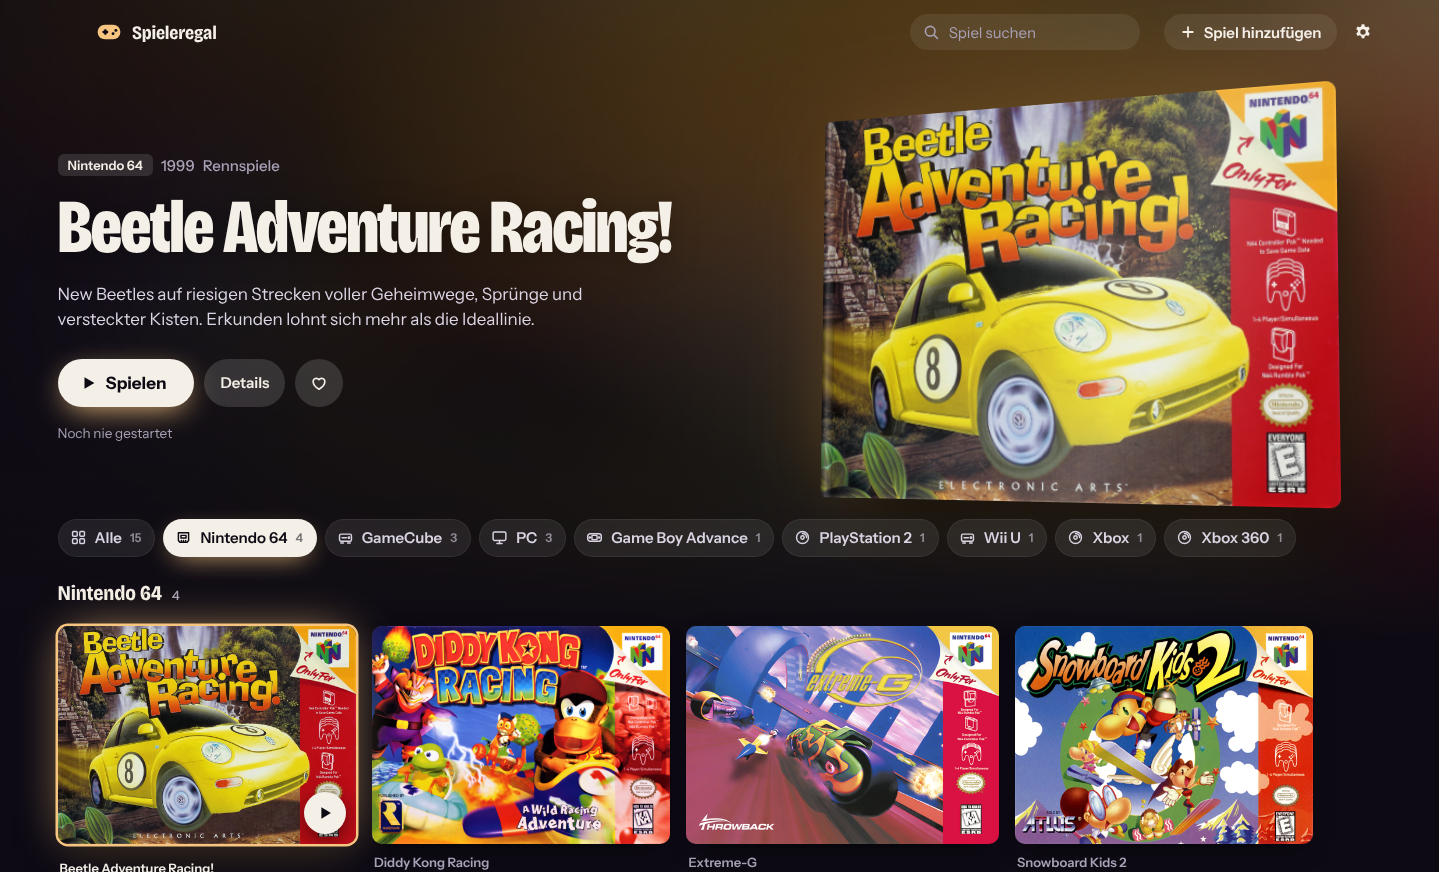
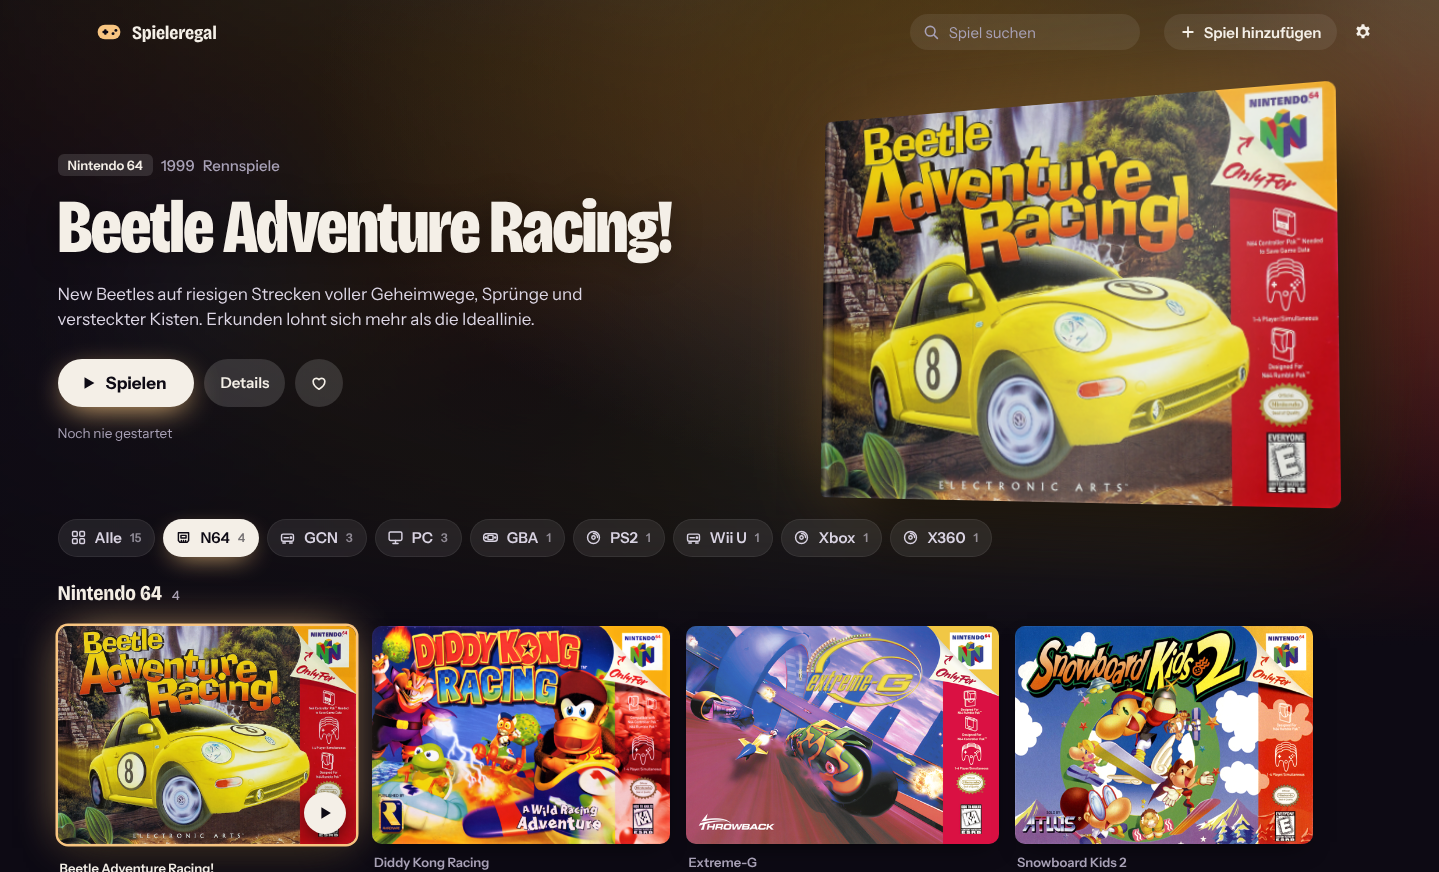
Filterleiste: Kurzformen der Plattformen (N64, GCN, GBA, …)

diff --git a/app/renderer/app.js b/app/renderer/app.js
@@ -41,6 +41,9 @@ const GLYPH = {
   laptop: '<rect x="4" y="4.500" width="12" height="8.500" rx="1.400"/><path d="M2 15.500h16"/>',
   gamepad: '<path d="M6 6.500h8a4 4 0 0 1 3.900 3.200l.5 2.600a2.100 2.100 0 0 1-3.700 1.700L13.500 12.500h-7L5.300 14a2.100 2.100 0 0 1-3.700-1.700l.5-2.600A4 4 0 0 1 6 6.500z"/><path d="M6.500 8.500v2.400M5.300 9.700h2.400"/><circle cx="13.500" cy="9.700" r=".7" fill="currentColor"/>',
 };
+// Gängige Kurzformen der Plattformen für die Filterleiste
+const SHORT = { 'Nintendo 64': 'N64', 'GameCube': 'GCN', 'Game Boy': 'GB', 'Game Boy Color': 'GBC', 'Game Boy Advance': 'GBA', 'Nintendo DS': 'NDS', 'Nintendo 3DS': '3DS',
+  'PlayStation': 'PS1', 'PlayStation 2': 'PS2', 'PlayStation 3': 'PS3', 'Xbox 360': 'X360', 'Dreamcast': 'DC', 'Mega Drive': 'MD', 'Saturn': 'SAT' };
 function glyph(p) {
   if (/^(Nintendo 64|NES|SNES|Mega Drive)$/.test(p)) return GLYPH.cartridge;
   if (/Game Boy|DS$|PSP/.test(p)) return GLYPH.handheld;
@@ -55,10 +58,10 @@ function renderFilters() {
   for (const g of S.games) if (g.platform) counts.set(g.platform, (counts.get(g.platform) || 0) + 1);
   if (platform && !counts.has(platform)) platform = '';
   const list = [...counts].sort((a, b) => b[1] - a[1] || a[0].localeCompare(b[0]));
-  const chip = (name, label, n, d) => `<button class="filter${platform === name ? ' on' : ''}" data-p="${esc(name)}" aria-pressed="${platform === name}">${ICON(d)}<span>${esc(label)}</span><small>${n}</small></button>`;
+  const chip = (name, label, n, d) => `<button class="filter${platform === name ? ' on' : ''}" data-p="${esc(name)}" title="${esc(name || 'Alle Plattformen')}" aria-label="${esc(name || 'Alle')}, ${n} Spiele" aria-pressed="${platform === name}">${ICON(d)}<span>${esc(label)}</span><small>${n}</small></button>`;
   const el = $('#filters');
   el.hidden = list.length < 2;
-  el.innerHTML = chip('', 'Alle', S.games.length, GLYPH.all) + list.map(([p, n]) => chip(p, p, n, glyph(p))).join('');
+  el.innerHTML = chip('', 'Alle', S.games.length, GLYPH.all) + list.map(([p, n]) => chip(p, SHORT[p] || p, n, glyph(p))).join('');
 }
 $('#filters').addEventListener('click', (e) => {
   const b = e.target.closest('.filter'); if (!b) return;

diff --git a/README.md b/README.md
@@ -16,7 +16,7 @@
 ## Was es kann
 
 - **Bühne und Regale.** Das gewählte Spiel steht groß oben, mit 3D-Cover, Beschreibung und „Spielen“. Darunter Regale für „Weiterspielen“, Favoriten, alle Spiele, Genres und Plattformen. Der Hintergrund nimmt die Farbe des Covers an.
-- **Plattform-Filter.** Ein Klick auf „Nintendo 64“, „GameCube“ oder „PC“ zeigt nur die Spiele dieser Plattform. Die Filter entstehen aus der eigenen Sammlung.
+- **Plattform-Filter.** Ein Klick auf „N64“, „GCN“ oder „PC“ zeigt nur die Spiele dieser Plattform. Die Filter entstehen aus der eigenen Sammlung.
 - **Artwork groß ansehen.** Ein Klick auf ein Cover holt das Spiel auf die Bühne und scrollt sanft nach oben.
 - **macOS-Widget.** Ein echtes Widget für Schreibtisch und Mitteilungszentrale (mittel und groß) mit den zuletzt gespielten Spielen. Ein Klick aufs Cover startet das Spiel. Installation: Einstellungen, „macOS-Widget“, „Installieren“. Der Launcher baut es dann mit Xcode und legt es unter `~/Applications/Spieleregal Widget.app` ab.
 - **Schwebendes Widget-Fenster.** Dasselbe als breites Fenster der App, ohne Xcode. Ein- und ausschalten in den Einstellungen oder mit ⇧⌘W.
